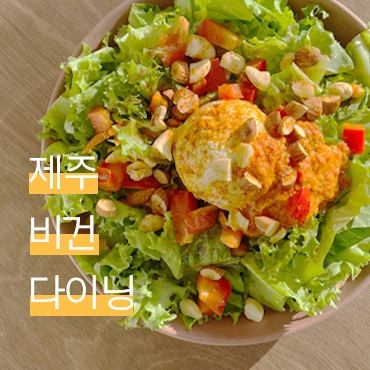
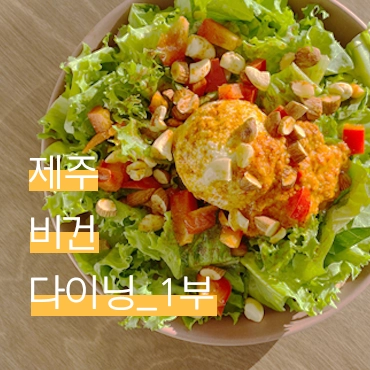
🌱 Magazine & keyframes #242

diff --git a/src/components/units/market/main/MarketMain.tsx b/src/components/units/market/main/MarketMain.tsx
@@ -37,8 +37,6 @@ function MarketMain() {
   const router = useRouter();
   const client = useApolloClient();
 
-  // console.log("마켓 메인 페이지가 랜더링 됩니다.");
-
   const prefetchData = async () => {
     await client.query({
       query: FETCH_PRODUCTS,
@@ -135,7 +133,6 @@ function MarketMain() {
         query: FETCH_PRODUCT,
         variables: { productId },
       });
-      // console.log(result.data.fetchProduct.isOutOfStock);
       if (result.data.fetchProduct.isOutOfStock !== true) {
         void router.push(`/market/product/${productId}`);
       } else {
@@ -161,13 +158,6 @@ function MarketMain() {
 
       <GlobalWrapper>
         <S.MarketMainContainer>
-          <S.SubBanner onClick={onClickMoveToPage("/signup")}>
-            <S.SubBannerImg src="/images/banner/Sub_banner.webp" />
-            <S.SubBannerWords>
-              <S.SubBannerWord01>네모비 회원가입시 3000 포인트 증정</S.SubBannerWord01>
-              <S.SubBannerWord02>지금 네모비에 가입하세요</S.SubBannerWord02>
-            </S.SubBannerWords>
-          </S.SubBanner>
           <S.MainItemsWrapper>
             <S.RecommendItemSection01>
               <S.MarketMainHeader01>
@@ -205,18 +195,14 @@ function MarketMain() {
                 ))}
               </IDS.ItemsWrapper03>
             </S.RecommendItemSection01>
-            <S.SubBanner02>
-              <S.SubBannerWords02>
-                <S.SubBannerWord03>육류 식단 넘보는 콩고기 진격?</S.SubBannerWord03>
-                <S.SubBannerWord02>자세한 내용 보러가기</S.SubBannerWord02>
-              </S.SubBannerWords02>
-              <S.SubBannerImg02 src="/images/banner/sub-banner02.webp" />
-              <S.SubBannerWords03>
-                <S.SubBannerWord03>실험용으로 태어난 동물은 없다</S.SubBannerWord03>
-                <S.SubBannerWord02>자세한 내용 보러가기</S.SubBannerWord02>
-              </S.SubBannerWords03>
-              <S.SubBannerImg02 src="/images/banner/sub-banner03.webp" />
-            </S.SubBanner02>
+            <S.SubBanner onClick={onClickMoveToPage("/signup")}>
+              <S.SubBannerImg src="/images/banner/Sub_banner.webp" />
+              <S.SubBannerWords>
+                <S.SubBannerWord01>네모비 회원가입시 3000 포인트 증정</S.SubBannerWord01>
+                <S.SubBannerWord02>지금 네모비에 가입하세요</S.SubBannerWord02>
+              </S.SubBannerWords>
+            </S.SubBanner>
+
             <S.MainMarketSection01>
               <S.HeaderDiv04>베스트</S.HeaderDiv04>
               <S.MarketMainHeader02>
@@ -249,6 +235,19 @@ function MarketMain() {
             </S.MainMarketSection01>
           </S.MainItemsWrapper>
         </S.MarketMainContainer>
+
+        <S.SubBanner02>
+          <S.SubBannerWords02 onClick={onClickMoveToPage("/magazine/03")}>
+            <S.SubBannerWord03>육류 식단 넘보는 콩고기 진격?</S.SubBannerWord03>
+            <S.SubBannerWord02>자세한 내용 보러가기</S.SubBannerWord02>
+          </S.SubBannerWords02>
+          <S.SubBannerImg02 src="/images/banner/sub-banner02.webp" />
+          <S.SubBannerWords03 onClick={onClickMoveToPage("/magazine/02")}>
+            <S.SubBannerWord03>실험용으로 태어난 동물은 없다</S.SubBannerWord03>
+            <S.SubBannerWord02>자세한 내용 보러가기</S.SubBannerWord02>
+          </S.SubBannerWords03>
+          <S.SubBannerImg02 src="/images/banner/sub-banner03.webp" />
+        </S.SubBanner02>
       </GlobalWrapper>
     </>
   );

diff --git a/pages/magazine/index.tsx b/pages/magazine/index.tsx
@@ -1,24 +1,34 @@
 import styled from "@emotion/styled";
 import { useRouter } from "next/router";
-import { tablet } from "../../src/commons/styles/breakPoints";
+import { mobile2, tablet } from "../../src/commons/styles/breakPoints";
 import { GlobalWrapper } from "../../src/commons/styles/globalStyles";
+import { SlideRight } from "../../src/commons/styles/keyframes";
 
 const GWrapper = styled(GlobalWrapper)`
   padding: 0;
   margin: 200px 0;
+  animation: ${SlideRight} 0.5s cubic-bezier(0.25, 0.46, 0.45, 0.94) both;
   @media ${tablet} {
     padding: 0 3%;
   }
 `;
 
 const Title = styled.h1`
+  width: 20%;
   font-size: 2.5rem;
   font-family: "Arita-Thin";
   border: 1px solid #ddd;
-  background-color: #710000;
-  color: #fff;
+  color: #000;
   padding: 3%;
   margin: 0;
+  @media ${tablet} {
+    width: 100%;
+    font-size: 4rem;
+    text-align: center;
+    margin: 20px 0;
+    border: none;
+    border-bottom: 4px solid #000;
+  }
 `;
 
 const MagazinesWrap = styled.section`
@@ -28,25 +38,34 @@ const MagazinesWrap = styled.section`
   justify-content: flex-start;
   gap: 3rem;
   @media ${tablet} {
-    gap: 5rem;
+    gap: 4rem;
+  }
+  @media ${mobile2} {
+    column-gap: 2.2rem;
   }
 `;
 
 const Template = styled.article`
-  width: calc(100% / 3 - 2rem);
-  aspect-ratio: 1/1;
-
   cursor: pointer;
   overflow: hidden;
-
+  width: calc(100% / 2 - 1.5rem);
   @media ${tablet} {
-    width: calc(100% / 2 - 2.5rem);
+    width: calc(100% / 2 - 2rem);
+  }
+  @media ${mobile2} {
+    width: 100%;
+  }
+`;
+
+const Template1 = styled(Template)`
+  width: 70%;
+  @media ${tablet} {
+    width: 100%;
   }
 `;
 
 const Thumbnail = styled.img`
   width: 100%;
-  aspect-ratio: 1/1;
   object-fit: cover;
   transition: all 0.5s ease-in-out;
   :hover {
@@ -65,19 +84,25 @@ export default function MagazinePage() {
     <GWrapper>
       <MagazinesWrap>
         <Title>Magazine</Title>
-        <Template onClick={onClickRouter("02")}>
-          <Thumbnail src="/images/magazine/02/magazine2.webp" />
-        </Template>
-        <Template onClick={onClickRouter("05")}>
+        <Template1 onClick={onClickRouter("02")} style={{ width: "70%" }}>
+          <Thumbnail src="/images/magazine/02/magazine22.webp" />
+        </Template1>
+        <Template onClick={onClickRouter("05")} style={{ width: "30%" }}>
           <Thumbnail src="/images/magazine/05/magazine5.webp" />
         </Template>
-        <Template onClick={onClickRouter("01")}>
+        <Template onClick={onClickRouter("06")} style={{ width: "30%" }}>
+          <Thumbnail src="/images/magazine/06/magazine6.webp" />
+        </Template>
+        <Template onClick={onClickRouter("07")} style={{ width: "30%" }}>
+          <Thumbnail src="/images/magazine/07/magazine7.webp" />
+        </Template>
+        <Template onClick={onClickRouter("01")} style={{ width: "30%" }}>
           <Thumbnail src="/images/magazine/01/magazine1.png" />
         </Template>
-        <Template onClick={onClickRouter("04")}>
+        <Template onClick={onClickRouter("04")} style={{ width: "30%" }}>
           <Thumbnail src="/images/magazine/04/magazine4.webp" />
         </Template>
-        <Template onClick={onClickRouter("03")}>
+        <Template onClick={onClickRouter("03")} style={{ width: "30%" }}>
           <Thumbnail src="/images/magazine/03/magazine3.webp" />
         </Template>
       </MagazinesWrap>

diff --git a/pages/magazine/06/index.tsx b/pages/magazine/06/index.tsx
@@ -1,0 +1,38 @@
+import styled from "@emotion/styled";
+import { tablet } from "../../../src/commons/styles/breakPoints";
+import { GlobalWrapper } from "../../../src/commons/styles/globalStyles";
+import BackArrow from "../../../src/components/commons/arrow";
+
+const Wrapper = styled(GlobalWrapper)`
+  margin: 100px 0;
+  text-align: center;
+
+  @media ${tablet} {
+    width: 90%;
+  }
+`;
+
+const Title = styled.h1`
+  font-size: 2.5rem;
+  font-family: "Arita-Thin";
+  word-break: keep-all;
+  text-align: left;
+`;
+
+const Img = styled.img`
+  width: 100%;
+  margin-top: 80px;
+
+  transition: all 0.5s 0.2s;
+`;
+
+export default function Magazine06() {
+  return (
+    <Wrapper>
+      <Title>제주 비건 다이닝 2,3부</Title>
+      <hr style={{ marginBottom: "30px" }} />
+      <Img src="/images/magazine/06/6.webp" />
+      <BackArrow />
+    </Wrapper>
+  );
+}

diff --git a/pages/magazine/07/index.tsx b/pages/magazine/07/index.tsx
@@ -1,0 +1,38 @@
+import styled from "@emotion/styled";
+import { tablet } from "../../../src/commons/styles/breakPoints";
+import { GlobalWrapper } from "../../../src/commons/styles/globalStyles";
+import BackArrow from "../../../src/components/commons/arrow";
+
+const Wrapper = styled(GlobalWrapper)`
+  margin: 100px 0;
+  text-align: center;
+
+  @media ${tablet} {
+    width: 90%;
+  }
+`;
+
+const Title = styled.h1`
+  font-size: 2.5rem;
+  font-family: "Arita-Thin";
+  word-break: keep-all;
+  text-align: left;
+`;
+
+const Img = styled.img`
+  width: 100%;
+  margin-top: 80px;
+
+  transition: all 0.5s 0.2s;
+`;
+
+export default function Magazine07() {
+  return (
+    <Wrapper>
+      <Title>제주 비건 다이닝 4부</Title>
+      <hr style={{ marginBottom: "30px" }} />
+      <Img src="/images/magazine/07/7.webp" />
+      <BackArrow />
+    </Wrapper>
+  );
+}

diff --git a/src/components/commons/arrow/index.tsx b/src/components/commons/arrow/index.tsx
@@ -1,22 +1,21 @@
 import styled from "@emotion/styled";
 import { useRouter } from "next/router";
-import { colorBase01 } from "../../../commons/styles/colorBases";
 import TrendingFlatIcon from "@mui/icons-material/TrendingFlat";
 
-const Back = styled.button`
-  border-radius: 15px;
-  ${colorBase01}
-  width: 15rem;
-  height: 50px;
-  padding: 0 1rem;
-  display: block;
+const Back = styled.h1`
+  width: 30%;
   margin: 100px auto;
-  font-size: 1.5rem;
-  font-family: "Arita-Medium";
+  font-size: 2.5rem;
+  font-family: "Arita-light";
   display: flex;
   flex-direction: row;
   justify-content: space-around;
   align-items: center;
+  cursor: pointer;
+  transition: all 0.5s ease-in-out;
+  :hover {
+    transform: scale(1.08);
+  }
 `;
 
 export default function BackButton() {

diff --git a/src/components/units/market/main/MarketMain.styles.ts b/src/components/units/market/main/MarketMain.styles.ts
@@ -124,6 +124,7 @@ export const MainMarketSection01 = styled.section`
   flex-direction: column;
   gap: 20px;
   margin: 15% 0 10% 0;
+  margin-bottom: 50px;
   @media ${mobile2} {
     height: 15rem;
     gap: 0px;
@@ -237,7 +238,7 @@ export const SubBanner02 = styled.section`
   @media ${mobile2} {
     display: none;
   }
-  margin-top: 5%;
+  margin: 10% 0;
   justify-content: space-between;
   position: relative;
 `;
@@ -252,6 +253,7 @@ export const SubBannerImg02 = styled.img`
 export const SubBannerWords02 = styled(SubBannerWords)`
   top: 25%;
   left: 4%;
+  cursor: pointer;
   @media (max-width: 540px) {
     top: 18%;
   }

diff --git a/src/commons/styles/keyframes.ts b/src/commons/styles/keyframes.ts
@@ -1,0 +1,25 @@
+import { keyframes } from "@emotion/react";
+
+export const SlideRight = keyframes`
+  0% {
+    -webkit-transform: translateX(0);
+            transform: translateX(0);
+  }
+  100% {
+    -webkit-transform: translateX(100px);
+            transform: translateX(100px);
+  }
+`;
+
+// animation: ${SlideRight} 0.5s cubic-bezier(0.25, 0.46, 0.45, 0.94) both;
+
+export const SlideTop = keyframes`
+0% {
+    -webkit-transform: translateY(0);
+            transform: translateY(0);
+  }
+  100% {
+    -webkit-transform: translateY(-100px);
+            transform: translateY(-100px);
+  }
+`;
